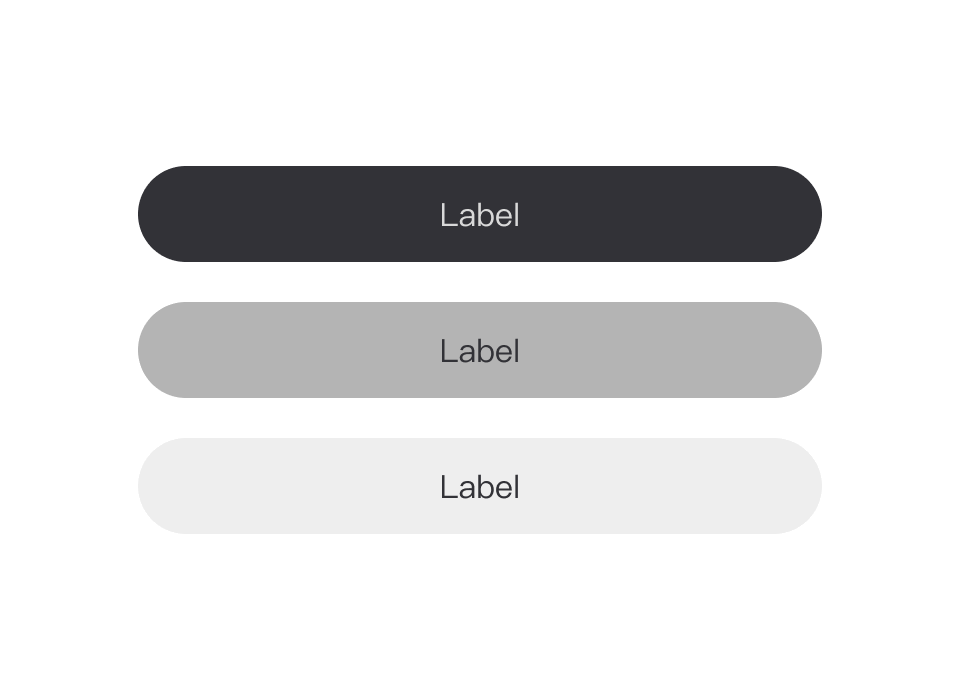
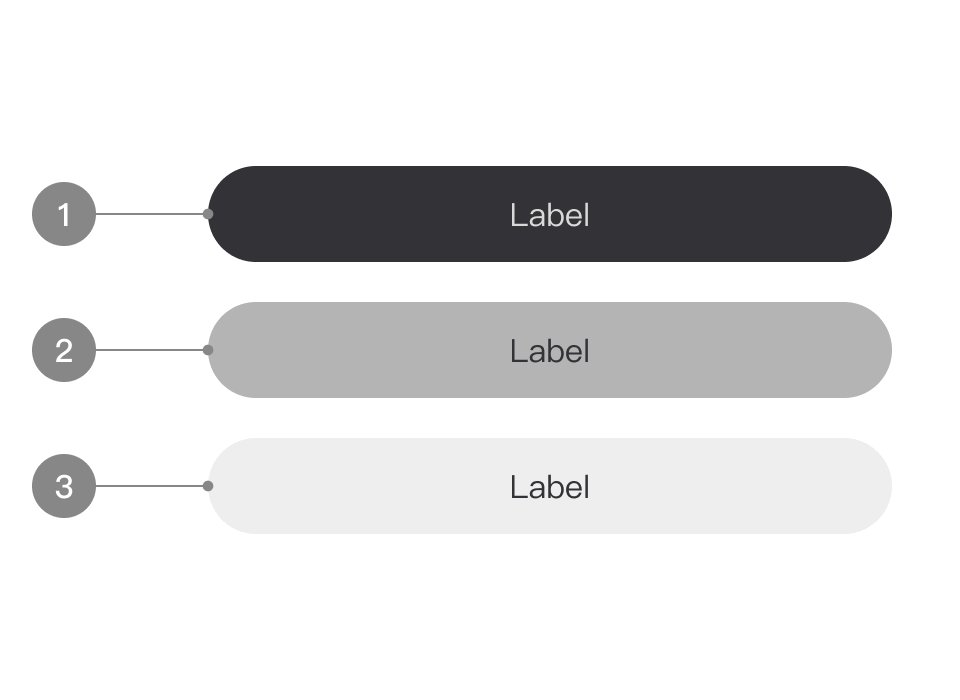
feat: Variants 改用圖說編號列表，並更新 variant 圖
Figma node 3734:15680 的 artboard 已加上 1/2/3 標號，重新以 scale 2
匯出（960×700）並去背，三個底色都完整保留：
Primary #323237、Secondary #b4b4b4、Tertiary #eeeeee，與 token 相符。

說明方式從三張卡片（各含一顆按鈕範例 + 標題 + 敘述）改為圖片下方的
編號列表，對應圖上的標號。按鈕範例已由圖片承擔，卡片內再放一次是重複。

- 新增 NumberedCaptions 元件與 .numbered-captions 樣式
- 欄數用 auto-fit + minmax(220px) 隨版面自動增減，窄螢幕收成一欄
- 選擇器寫成 .section > ol.numbered-captions 以壓過 .section > ol 的
  66ch 行寬限制，讓說明對齊上方滿版的圖

diff --git a/website/src/pages/components/ButtonPage.tsx b/website/src/pages/components/ButtonPage.tsx
@@ -122,6 +122,27 @@ function ButtonPreview({
   );
 }
 
+// ── 圖說編號列表 ──
+/**
+ * 對應圖片上標號的說明，接在圖片下方。
+ *
+ * 欄數隨版面寬度自動增減（auto-fit + minmax），窄螢幕會收成一欄。
+ */
+function NumberedCaptions({ items }: { items: { name: string; desc?: string }[] }) {
+  return (
+    <ol className="numbered-captions">
+      {items.map((item, i) => (
+        <li key={item.name}>
+          <strong>
+            {i + 1}. {item.name}
+          </strong>
+          {item.desc && <span>{item.desc}</span>}
+        </li>
+      ))}
+    </ol>
+  );
+}
+
 // ── 互動式展示區 ──
 type IconOption = 'none' | 'leading' | 'trailing' | 'both';
 
@@ -274,39 +295,13 @@ export default function ButtonPage() {
               alt="三種按鈕權重由重到輕：深底的 Primary、中灰底的 Secondary、淺灰底的 Tertiary"
             />
 
-            <div style={{ display: 'grid', gap: 16 }}>
-              {[
-                { style: 'primary' as Style, desc: '最高權重。畫面上最主要的那一個行動，實心底色。' },
-                { style: 'secondary' as Style, desc: '次要操作。實心中灰底，存在感低於 primary。' },
-                { style: 'tertiary' as Style, desc: '最低權重。實心淺灰底，適合取消、略過這類動作。' },
-              ].map((v) => (
-                <div
-                  key={v.style}
-                  style={{
-                    display: 'flex',
-                    alignItems: 'center',
-                    gap: 24,
-                    flexWrap: 'wrap',
-                    padding: 24,
-                    borderRadius: 12,
-                    background: 'var(--page-secondary)',
-                    border: '1px solid var(--border-divider)',
-                  }}
-                >
-                  <div style={{ flexShrink: 0 }}>
-                    <ButtonPreview label={cap(v.style)} style={v.style} size="small" state="enabled" />
-                  </div>
-                  <div style={{ flex: 1, minWidth: 220 }}>
-                    <div className="heading-sm" style={{ marginBottom: 4 }}>
-                      {cap(v.style)}
-                    </div>
-                    <div className="text-sm" style={{ color: 'var(--text-secondary)' }}>
-                      {v.desc}
-                    </div>
-                  </div>
-                </div>
-              ))}
-            </div>
+            <NumberedCaptions
+              items={[
+                { name: 'Primary', desc: '最高權重。畫面上最主要的那一個行動，實心深底。' },
+                { name: 'Secondary', desc: '次要操作。實心中灰底，存在感低於 Primary。' },
+                { name: 'Tertiary', desc: '最低權重。實心淺灰底，適合取消、略過這類動作。' },
+              ]}
+            />
           </section>
 
           {/* ── 2. Configurations ── */}

diff --git a/website/src/styles/global.css b/website/src/styles/global.css
@@ -287,6 +287,37 @@ code {
   border-bottom: none;
 }
 
+/* ── 圖說編號列表 ───────────────────────────────────────────
+   接在說明圖下方，對應圖片上的標號。欄數隨版面寬度自動增減。
+   ───────────────────────────────────────────────────────── */
+
+/* 選擇器要壓過 `.section > ol` 的 max-width：說明要對齊上方滿版的圖，
+   不套用敘述段落的 66ch 行寬。 */
+.section > ol.numbered-captions {
+  display: grid;
+  grid-template-columns: repeat(auto-fit, minmax(220px, 1fr));
+  gap: 20px 32px;
+  max-width: none;
+  margin: 0;
+  padding: 0;
+  list-style: none;
+}
+
+.numbered-captions strong {
+  display: block;
+  font-size: 15px;
+  font-weight: 500;
+  color: var(--text-primary);
+}
+
+.numbered-captions span {
+  display: block;
+  margin-top: 4px;
+  font-size: 14px;
+  line-height: 1.6;
+  color: var(--text-secondary);
+}
+
 /* ── 互動式展示區 ───────────────────────────────────────────
    結構參考 Montage 文件站的 Variants 區塊：左側是即時預覽，
    右側是一張控制卡，每個維度一組 radio，點了立刻反映在預覽上。
